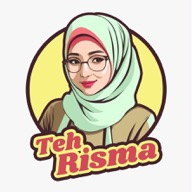
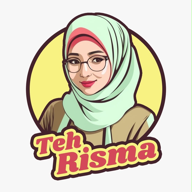
Update

diff --git a/src/components/IOSInstallBanner.tsx b/src/components/IOSInstallBanner.tsx
@@ -1,0 +1,108 @@
+'use client';
+
+import { useEffect, useState } from 'react';
+import Image from 'next/image';
+import { motion, AnimatePresence } from 'framer-motion';
+import { X, Share } from 'lucide-react';
+import logo from '@/assets/images/logo-tehrisma.jpeg';
+
+export default function IOSInstallBanner() {
+  const [show, setShow] = useState(false);
+
+  useEffect(() => {
+    const isIOS =
+      /iPad|iPhone|iPod/.test(navigator.userAgent) && !(window as unknown as { MSStream?: unknown }).MSStream;
+    const isStandalone =
+      window.matchMedia('(display-mode: standalone)').matches ||
+      ('standalone' in window.navigator && (window.navigator as { standalone?: boolean }).standalone === true);
+    const dismissed = sessionStorage.getItem('ios_banner_dismissed');
+
+    if (isIOS && !isStandalone && !dismissed) {
+      setTimeout(() => setShow(true), 2000);
+    }
+  }, []);
+
+  const dismiss = () => {
+    setShow(false);
+    sessionStorage.setItem('ios_banner_dismissed', '1');
+  };
+
+  return (
+    <AnimatePresence>
+      {show && (
+        <motion.div
+          initial={{ y: 120, opacity: 0 }}
+          animate={{ y: 0, opacity: 1 }}
+          exit={{ y: 120, opacity: 0 }}
+          transition={{ type: 'spring', damping: 24, stiffness: 200 }}
+          className="fixed bottom-20 left-3 right-3 z-[70] rounded-2xl shadow-2xl overflow-hidden"
+          style={{ background: '#FFFBF5', border: '1.5px solid rgba(217,119,6,0.25)' }}
+        >
+          {/* Top accent */}
+          <div className="h-1 w-full" style={{ background: 'linear-gradient(90deg, #D97706, #F59E0B)' }} />
+
+          <div className="p-4">
+            <div className="flex items-start gap-3">
+              {/* Logo */}
+              <div className="relative w-12 h-12 rounded-xl overflow-hidden flex-shrink-0 border border-amber-200">
+                <Image src={logo} alt="Cemilan Teh Risma" fill className="object-cover" />
+              </div>
+
+              {/* Text */}
+              <div className="flex-1 min-w-0">
+                <p className="font-display font-bold text-amber-950 text-sm leading-tight">
+                  Pasang di iPhone kamu!
+                </p>
+                <p className="text-amber-700/65 text-xs mt-0.5 leading-snug">
+                  Akses Cemilan Teh Risma seperti aplikasi, lebih cepat & mudah.
+                </p>
+              </div>
+
+              {/* Close */}
+              <button
+                onClick={dismiss}
+                className="p-1.5 rounded-lg text-amber-400 hover:text-amber-600 hover:bg-amber-100 transition-colors flex-shrink-0"
+              >
+                <X size={15} />
+              </button>
+            </div>
+
+            {/* Steps */}
+            <div className="mt-3 pt-3 border-t border-amber-100">
+              <p className="text-amber-700/55 text-[11px] font-semibold uppercase tracking-wider mb-2">
+                Cara pasang:
+              </p>
+              <div className="flex items-center gap-2 flex-wrap">
+                <Step number={1} text="Tap ikon" icon={<Share size={11} />} />
+                <Arrow />
+                <Step number={2} text="Tambahkan ke Layar Utama" />
+                <Arrow />
+                <Step number={3} text="Tap Tambahkan" />
+              </div>
+            </div>
+          </div>
+        </motion.div>
+      )}
+    </AnimatePresence>
+  );
+}
+
+function Step({ number, text, icon }: { number: number; text: string; icon?: React.ReactNode }) {
+  return (
+    <div className="flex items-center gap-1">
+      <span
+        className="w-4 h-4 rounded-full flex items-center justify-center text-[9px] font-bold text-white flex-shrink-0"
+        style={{ background: '#D97706' }}
+      >
+        {number}
+      </span>
+      <span className="text-amber-900 text-[11px] font-medium flex items-center gap-0.5">
+        {text} {icon}
+      </span>
+    </div>
+  );
+}
+
+function Arrow() {
+  return <span className="text-amber-300 text-xs">→</span>;
+}

diff --git a/src/app/layout.tsx b/src/app/layout.tsx
@@ -2,6 +2,7 @@ import type { Metadata, Viewport } from 'next';
 import { Playfair_Display, Inter } from 'next/font/google';
 import { Toaster } from 'react-hot-toast';
 import SplashScreen from '@/components/SplashScreen';
+import IOSInstallBanner from '@/components/IOSInstallBanner';
 import './globals.css';
 
 const playfair = Playfair_Display({
@@ -81,8 +82,16 @@ export const viewport: Viewport = {
 export default function RootLayout({ children }: { children: React.ReactNode }) {
   return (
     <html lang="id" className={`${playfair.variable} ${inter.variable}`}>
+      <head>
+        <meta name="apple-mobile-web-app-capable" content="yes" />
+        <meta name="apple-mobile-web-app-status-bar-style" content="default" />
+        <meta name="apple-mobile-web-app-title" content="Cemilan Teh Risma" />
+        <link rel="apple-touch-icon" href="/apple-touch-icon.png" />
+        <link rel="apple-touch-icon" sizes="180x180" href="/apple-touch-icon.png" />
+      </head>
       <body className="antialiased">
         <SplashScreen />
+        <IOSInstallBanner />
         {children}
         <Toaster
           position="bottom-right"